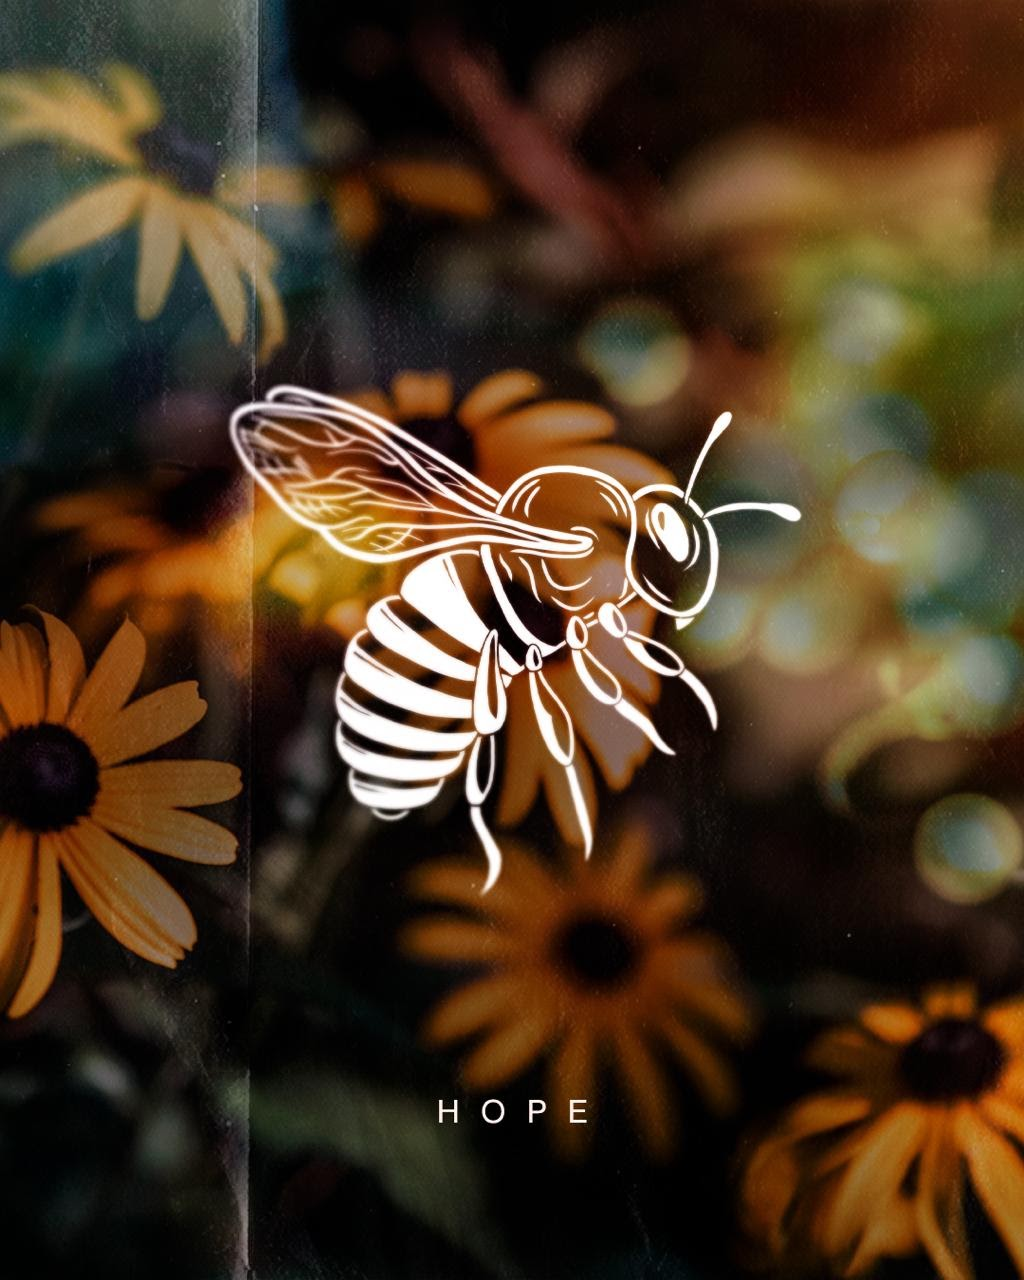
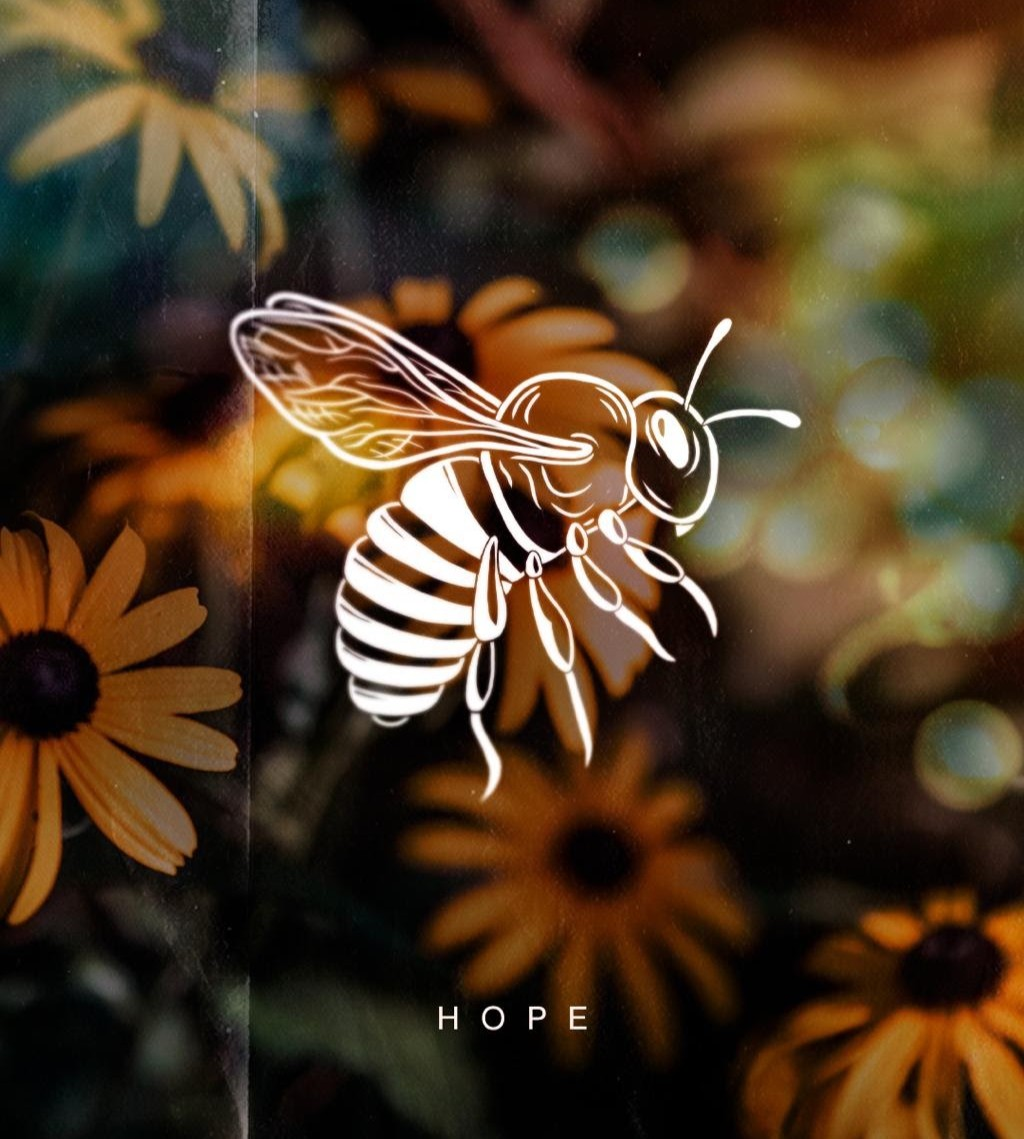
style.3

diff --git a/js/coordenacao.js b/js/coordenacao.js
@@ -7,7 +7,9 @@ document.addEventListener("DOMContentLoaded", async () => {
   const coordenacoes = await res.json();
 
   if (id) {
-    renderDetalhe(id, coordenacoes, busca);
+    const resSuper = await fetch("data/supervisoras.json");
+    const supervisoes = await resSuper.json();
+    renderDetalhe(id, coordenacoes, supervisoes, busca);
   } else {
     renderLista(coordenacoes);
   }
@@ -17,7 +19,7 @@ function renderLista(coordenacoes) {
   const grid = document.querySelector("#coordenacoes-grid");
   if (!grid) return;
 
-const html = coordenacoes.map(c => `
+  const html = coordenacoes.map(c => `
     <a href="coordenacao.html?id=${c.id}" class="card">
       <div class="card-foto-wrapper">
         <img class="card-foto" src="${c.coordenacao_foto}" alt="${c.nome}">
@@ -31,8 +33,7 @@ const html = coordenacoes.map(c => `
   grid.insertAdjacentHTML("beforeend", html);
 }
 
-function renderDetalhe(id, coordenacoes, busca) {
-  console.log("Busca recebida:", busca);
+function renderDetalhe(id, coordenacoes, supervisoes, busca) {
   const coordenacao = coordenacoes.find(c => c.id === id);
 
   if (!coordenacao) {
@@ -41,6 +42,9 @@ function renderDetalhe(id, coordenacoes, busca) {
   }
 
   document.title = `${coordenacao.nome} | Feminina Voltz`;
+
+  const supervisao = supervisoes.find(s => s.id === coordenacao.supervisaoId);
+  const mostrarSupervisora = Boolean(supervisao);
 
   const lideresHtml = coordenacao.lideres.map(l => `
     <div class="lider-card">
@@ -53,7 +57,18 @@ function renderDetalhe(id, coordenacoes, busca) {
   <section class="detalhe-header">
 
     <div class="coordenadora-info">
-      <img class="coordenadora-foto" src="${coordenacao.coordenadora_foto}" alt="${coordenacao.coordenadora}">
+      <p>Coordenadora:</p>
+      
+      <div class="detalhe-foto-wrapper">
+        <img class="coordenadora-foto" src="${coordenacao.coordenadora_foto}" alt="${coordenacao.coordenadora}">
+
+        ${mostrarSupervisora ? `
+          <img class="detalhe-foto-mini" src="${supervisao.supervisora_foto}" alt="${supervisao.supervisora}">
+          <span class="supervisora-badge-texto">Supervisora:<br>${supervisao.supervisora}</span>
+        ` : ""}
+
+      </div>
+
       <p>${coordenacao.coordenadora}</p>
     </div>
 
@@ -82,142 +97,93 @@ function renderDetalhe(id, coordenacoes, busca) {
   </section>
 
   <section class="lideres-secao">
-    <div class="container lideres-grid">
-      ${lideresHtml}
+    <div class="container">
+      <h2 class="secao-titulo">Líderes</h2>
+      <div class="lideres-grid">
+        ${lideresHtml}
+      </div>
     </div>
   </section>
 `;
 
   document.querySelector("#conteudo").insertAdjacentHTML("beforeend", html);
+
   if (busca) {
     destacarTexto(busca);
   }
+}
 
-  // DESTACAR TEXTO
-  function destacarTexto(busca) {
+// DESTACAR TEXTO
+function destacarTexto(busca) {
 
-    const conteudo = document.querySelector("#conteudo");
+  const conteudo = document.querySelector("#conteudo");
 
-    if (!conteudo) return;
+  if (!conteudo) return;
 
+  function normalizar(texto) {
+    return texto
+      .normalize("NFD")
+      .replace(/[\u0300-\u036f]/g, "")
+      .toLowerCase();
+  }
 
-    function normalizar(texto) {
-      return texto
-        .normalize("NFD")
-        .replace(/[\u0300-\u036f]/g, "")
-        .toLowerCase();
-    }
+  const buscaNormalizada = normalizar(busca);
 
+  function percorrerNos(elemento) {
 
-    const buscaNormalizada = normalizar(busca);
+    elemento.childNodes.forEach(no => {
 
+      if (no.nodeType === Node.TEXT_NODE) {
 
-    function percorrerNos(elemento) {
+        const textoOriginal = no.textContent;
+        const textoNormalizado = normalizar(textoOriginal);
+        const indice = textoNormalizado.indexOf(buscaNormalizada);
 
-      elemento.childNodes.forEach(no => {
+        if (indice !== -1) {
 
+          // pega a posição correta no texto original
+          let contador = 0;
+          let inicioOriginal = 0;
 
-        if (no.nodeType === Node.TEXT_NODE) {
+          for (let i = 0; i < textoOriginal.length; i++) {
+            const caractereNormalizado = normalizar(textoOriginal[i]);
+            contador += caractereNormalizado.length;
 
-          const textoOriginal = no.textContent;
-
-          const textoNormalizado = normalizar(textoOriginal);
-
-
-          const indice = textoNormalizado.indexOf(buscaNormalizada);
-
-
-          if (indice !== -1) {
-
-
-            // pega a posição correta no texto original
-            let contador = 0;
-            let inicioOriginal = 0;
-
-
-            for (let i = 0; i < textoOriginal.length; i++) {
-
-              const caractereNormalizado = normalizar(
-                textoOriginal[i]
-              );
-
-
-              contador += caractereNormalizado.length;
-
-
-              if (contador > indice) {
-                inicioOriginal = i;
-                break;
-              }
-
+            if (contador > indice) {
+              inicioOriginal = i;
+              break;
             }
-
-
-            const fimOriginal =
-              inicioOriginal + busca.length;
-
-
-            const fragmento =
-              document.createDocumentFragment();
-
-
-            const antes =
-              textoOriginal.substring(
-                0,
-                inicioOriginal
-              );
-
-
-            const destaque =
-              textoOriginal.substring(
-                inicioOriginal,
-                fimOriginal
-              );
-
-
-            const depois =
-              textoOriginal.substring(
-                fimOriginal
-              );
-
-
-            if (antes) {
-              fragmento.appendChild(
-                document.createTextNode(antes)
-              );
-            }
-
-
-            const mark = document.createElement("mark");
-            mark.textContent = destaque;
-
-            fragmento.appendChild(mark);
-
-
-            if (depois) {
-              fragmento.appendChild(
-                document.createTextNode(depois)
-              );
-            }
-
-
-            no.replaceWith(fragmento);
-
           }
 
+          const fimOriginal = inicioOriginal + busca.length;
 
-        } else {
+          const fragmento = document.createDocumentFragment();
 
-          percorrerNos(no);
+          const antes = textoOriginal.substring(0, inicioOriginal);
+          const destaque = textoOriginal.substring(inicioOriginal, fimOriginal);
+          const depois = textoOriginal.substring(fimOriginal);
 
+          if (antes) {
+            fragmento.appendChild(document.createTextNode(antes));
+          }
+
+          const mark = document.createElement("mark");
+          mark.textContent = destaque;
+          fragmento.appendChild(mark);
+
+          if (depois) {
+            fragmento.appendChild(document.createTextNode(depois));
+          }
+
+          no.replaceWith(fragmento);
         }
 
-      });
+      } else {
+        percorrerNos(no);
+      }
 
-    }
-
-
-    percorrerNos(conteudo);
-
+    });
   }
+
+  percorrerNos(conteudo);
 }

diff --git a/static/css/style.css b/static/css/style.css
@@ -9,7 +9,7 @@
     --cor-amarelo: #F1C232;
     --cor-texto: #444;
     --cor-cinza: #666;
-    --navbar-height: 60px;
+    --navbar-height: 50px;
     --arredondado: 12px;
     --sombra: 0 2px 8px rgba(0, 0, 0, 0.08);
     --sombra-pesada: 0 6px 16px rgba(0, 0, 0, 0.12);
@@ -534,6 +534,60 @@ mark{
     color: var(--cor-cinza);
 }
 
+/* ==========================================================================
+   SUPERVISORA DA COORDENAÇÃO
+   ========================================================================== */
+
+.detalhe-foto-wrapper {
+    position: relative;
+}
+
+.detalhe-foto-mini {
+    position: absolute;
+    bottom: 0;
+    right: -20px;
+    width: 75px;
+    height: 75px;
+    object-fit: cover;
+    border-radius: 50%;
+    border: 3px solid var(--cor-amarelo);
+}
+
+.supervisora-badge-texto {
+    position: absolute;
+    bottom: -28px;
+    left: 210px;
+    font-size: 0.75rem;
+    color: var(--cor-texto);
+    line-height: 1.25;
+    text-align: left;
+    white-space: nowrap;
+}
+
+/* ==========================================================================
+   COORDENAÇÕES/LÍDERES (título da sessão lilás)
+   ========================================================================== */
+
+.secao-titulo {
+    text-align: center;
+    font-family: "Cinzel", serif;
+    color: var(--cor-roxo);
+    font-size: 1.1rem;
+    text-transform: uppercase;
+    letter-spacing: 2px;
+    padding-top: 2rem;
+    margin-bottom: 1.5rem;
+    position: relative;
+}
+
+.secao-titulo::after {
+    content: "";
+    display: block;
+    width: 40px;
+    height: 2px;
+    margin: 0 auto 0;
+    background: var(--cor-amarelo);
+}
 
 /* ==========================================================================
    DETALHE (coordenação, supervisão ou legado individual)
@@ -568,11 +622,10 @@ mark{
 .detalhe-personagem,
 .detalhe-informacoes {
     max-width: 400px;
-    margin: 0.2rem auto;
     color: var(--cor-texto);
     grid-column: 3;
     text-align: left;
-    margin-right: 4rem;
+    margin-right: 0.5rem;
 }
 
 .coordenadora-info,
@@ -584,7 +637,7 @@ mark{
     gap: 0.5rem;
     grid-column: 1;
     grid-row: 1;
-    margin-left: 13rem;
+    margin-left: 10rem;
 }
 
 .coordenadora-foto,
@@ -605,7 +658,7 @@ mark{
 .coordenacoes-secao {
     width: 100%;
     background-color: var(--cor-lilas);
-    padding: 2rem 0 3.8rem;
+    padding: 0rem 0 3.8rem;
 }
 
 .lideres-grid,

diff --git a/js/supervisao.js b/js/supervisao.js
@@ -60,6 +60,7 @@ function renderDetalhe(id, supervisoes, coordenacoes, busca) {
   <section class="detalhe-header">
 
     <div class="supervisora-info">
+      <p>Supervisora:</p>
       <img class="supervisora-foto" src="${supervisao.supervisora_foto}" alt="${supervisao.supervisora}">
       <p>${supervisao.supervisora}</p>
     </div>
@@ -89,8 +90,11 @@ function renderDetalhe(id, supervisoes, coordenacoes, busca) {
   </section>
 
   <section class="coordenacoes-secao">
-    <div class="container coordenacoes-grid">
-      ${coordenacoesHtml}
+    <div class="container">
+      <h2 class="secao-titulo">Coordenações</h2>
+      <div class="coordenacoes-grid">
+        ${coordenacoesHtml}
+      </div>
     </div>
   </section>
 `;

diff --git a/legados.html b/legados.html
@@ -23,7 +23,7 @@
 <section class="descricao">
     <h1>Legados</h1>
     <p>
-        Estes são todos os legados Feminina Voltz.
+        Estes são todos os legados Feminina Voltz!
     </p>
 </section>
 